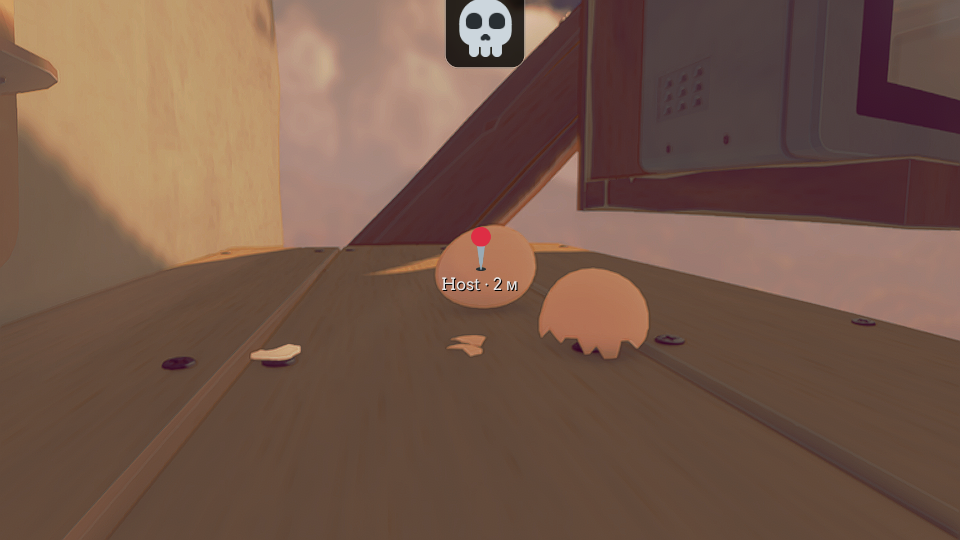
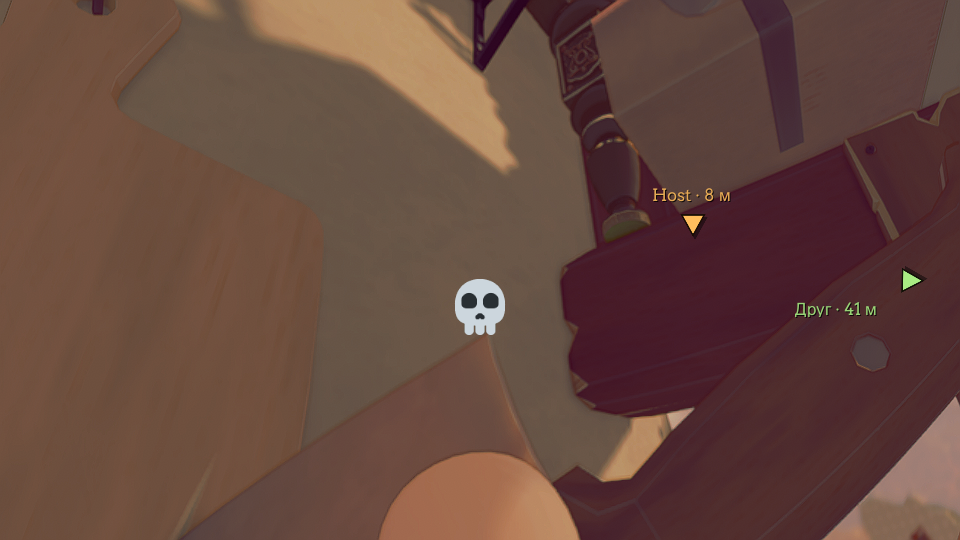
0.5.1: triangle pings in player colours with edge arrows, frameless steady emotes

diff --git a/src/EggCoop/Social.cs b/src/EggCoop/Social.cs
@@ -10,15 +10,15 @@ namespace EggCoop
     public partial class Plugin
     {
         const byte SEmote = CoopNet.SocialBase, SStats = SEmote + 1, SPing = SEmote + 2, SFall = SEmote + 3, SReset = SEmote + 4;
-        const float EmoteTime = 3.5f, PingTime = 12f, BigFall = 15f;
+        const float EmoteTime = 3.5f, PingTime = 12f, BigFall = 15f, EmoteSize = 56f;
         // Twemoji 15.1 (CC-BY 4.0), embedded as emote.<codepoint>.
-        static readonly string[] EmoteIcons = { "1f44b", "1f44d", "1f602", "1f631", "1f621", "1f64f", "1f480", "1f4cd" };
+        static readonly string[] EmoteIcons = { "1f44b", "1f44d", "1f602", "1f631", "1f621", "1f64f", "1f480", null };   // the last slot is the ping: drawn as its triangle
         static readonly string[] EmoteNames = { "Привет", "Класс!", "Ха-ха", "Ааа!", "Злюсь", "Помогите!", "RIP", "Метка" };
         const int PingIndex = 7;
 
         Texture2D[] emoteTex;
-        Texture2D wheelDisc, wheelSlice, wheelCenter, wheelCenterHot;
-        GUIStyle sBubble, sCap, sCloseX, sHint;
+        Texture2D wheelDisc, wheelSlice, wheelCenter, wheelCenterHot, triTex;
+        GUIStyle sCap, sCloseX, sHint;
         bool wheelOpen, aiming;
         int wheelHover = -1;
         float lastEmoteAt = -10f, nextStats;
@@ -111,22 +111,18 @@ namespace EggCoop
             aiming = false; UpdateCursor();
             var cam = Camera.main;
             if (cam == null || !InGame()) return;
-            // First solid thing under the cursor that is not an egg (ours or a friend's).
-            foreach (var h in Physics.RaycastAll(cam.ScreenPointToRay(screen), 500f, ~0, QueryTriggerInteraction.Ignore).OrderBy(h => h.distance))
-            {
-                if (h.collider.GetComponentInParent<EggCoreData>() != null || h.collider.GetComponentInParent<RawEggController>() != null
-                    || h.collider.transform.root.name.StartsWith("EggCoop_Ghost")) continue;
-                pings[-1] = (h.point, Time.unscaledTime);
-                if (net.Connected)
-                {
-                    var w = net.WorldWriter(); w.Put(SPing); w.Put(h.point.x); w.Put(h.point.y); w.Put(h.point.z);
-                    net.SendWorld(w, DeliveryMethod.ReliableUnordered);
-                }
-                return;
-            }
-            Toast("Туда метку не поставить — кликните по земле или предмету");
+            // First solid thing under the cursor that is not an egg (ours or a friend's). Distant scenery often has no
+            // collider: then the ping floats 30 m out along the view, which still shows the direction.
+            var ray = cam.ScreenPointToRay(screen);
+            var hit = Physics.RaycastAll(ray, 500f, ~0, QueryTriggerInteraction.Ignore).OrderBy(h => h.distance)
+                .FirstOrDefault(h => h.collider.GetComponentInParent<EggCoreData>() == null && h.collider.GetComponentInParent<RawEggController>() == null
+                    && !h.collider.transform.root.name.StartsWith("EggCoop_Ghost"));
+            var at = hit.collider != null ? hit.point : ray.GetPoint(30f);
+            pings[-1] = (at, Time.unscaledTime);
+            if (!net.Connected) return;
+            var w = net.WorldWriter(); w.Put(SPing); w.Put(at.x); w.Put(at.y); w.Put(at.z);
+            net.SendWorld(w, DeliveryMethod.ReliableUnordered);
         }
-
         void ReceiveSocial(int from, NetPacketReader r)
         {
             byte type = r.GetByte();
@@ -168,21 +164,20 @@ namespace EggCoop
 
         // ---------------------------------------------------------------- GUI
 
-        void InitSocialStyles(Font font, Texture2D panel, RectOffset panelBorder)
+        void InitSocialStyles(Font font)
         {
-            emoteTex = EmoteIcons.Select(LoadIcon).ToArray();
+            emoteTex = EmoteIcons.Select(c => c != null ? LoadIcon(c) : null).ToArray();
             wheelDisc = Ring(512, 0.34f, 181f, new Color(0f, 0f, 0f, 0.78f), new Color(1f, 1f, 1f, 0.14f));
             wheelSlice = Ring(512, 0.34f, 180f / EmoteIcons.Length, new Color(1f, 0.655f, 0.153f, 0.32f), new Color(1f, 0.655f, 0.153f, 0.8f));
             wheelCenter = Ring(128, 0f, 181f, new Color(1f, 1f, 1f, 0.08f), new Color(1f, 1f, 1f, 0.2f));
             wheelCenterHot = Ring(128, 0f, 181f, new Color(1f, 0.655f, 0.153f, 0.3f), new Color(1f, 0.655f, 0.153f, 0.8f));
-            sBubble = new GUIStyle { border = panelBorder };
-            sBubble.normal.background = panel;
+            triTex = Triangle(96);
             sCap = new GUIStyle(GUI.skin.label) { font = font, fontSize = 20, alignment = TextAnchor.MiddleCenter };
             sCap.normal.textColor = Orange;
             sCloseX = new GUIStyle(sCap) { fontSize = 34 };
             sCloseX.normal.textColor = Color.white;
             sHint = new GUIStyle(sDim) { alignment = TextAnchor.MiddleCenter, wordWrap = false };
-            Log.LogInfo($"Emotes: {emoteTex.Count(t => t != null)} of {EmoteIcons.Length} icons");
+            Log.LogInfo($"Emotes: {emoteTex.Count(t => t != null)} of {EmoteIcons.Length - 1} icons");
         }
 
         static Texture2D LoadIcon(string codepoint)
@@ -242,11 +237,42 @@ namespace EggCoop
                 float a = i * Mathf.PI * 2f / EmoteIcons.Length, rr = (R + inner) / 2f;
                 float s = Mathf.Min(R * 0.27f, 60f) * (i == wheelHover ? 1.18f : 1f);
                 var p = new Vector2(c.x + Mathf.Sin(a) * rr, c.y - Mathf.Cos(a) * rr);
-                if (emoteTex[i] != null) GUI.DrawTexture(new Rect(p.x - s / 2, p.y - s / 2, s, s), emoteTex[i], ScaleMode.ScaleToFit);
+                if (i == PingIndex) { GUI.color = Color.Lerp(Color.white, PlayerColor(-1), 0.75f); GUI.DrawTexture(new Rect(p.x - s * 0.4f, p.y - s * 0.4f, s * 0.8f, s * 0.8f), triTex); GUI.color = Color.white; }
+                else if (emoteTex[i] != null) GUI.DrawTexture(new Rect(p.x - s / 2, p.y - s / 2, s, s), emoteTex[i], ScaleMode.ScaleToFit);
             }
             GUI.Label(new Rect(c.x - 250, c.y + R + 6, 500, 30), wheelHover >= 0 ? EmoteNames[wheelHover] : "Закрыть", sCap);
             GUI.Label(new Rect(c.x - 250, c.y + R + 36, 500, 22), $"наведите и отпустите {cfg.EmoteKey.Value} · × или Esc — закрыть", sHint);
             if (e.type == EventType.MouseDown && e.button == 0) { if (wheelHover >= 0) FireEmote(wheelHover); else CloseWheel(); e.Use(); }
+        }
+
+        // Each player's colour (by player id, the same on every screen): their ping, its label and their name tag.
+        static readonly Color[] Palette = { new Color(1f, 0.655f, 0.153f), new Color(0.35f, 0.8f, 1f), new Color(0.55f, 0.9f, 0.35f), new Color(1f, 0.45f, 0.7f) };
+        Color PlayerColor(int id) => Palette[((id < 0 ? net.MyId : id) % Palette.Length + Palette.Length) % Palette.Length];
+
+        // White down-pointing triangle with a soft dark rim: the ping marker (tinted per player), also the bubble's tail.
+        static Texture2D Triangle(int n)
+        {
+            var t = new Texture2D(n, n, TextureFormat.RGBA32, false) { hideFlags = HideFlags.HideAndDontSave, filterMode = FilterMode.Bilinear, wrapMode = TextureWrapMode.Clamp };
+            // Texture rows grow upward: the tip is at the bottom (low y).
+            var v = new[] { new Vector2(0.08f, 0.86f), new Vector2(0.92f, 0.86f), new Vector2(0.5f, 0.1f) };
+            var px = new Color[n * n];
+            for (int y = 0; y < n; y++)
+                for (int x = 0; x < n; x++)
+                {
+                    var p = new Vector2((x + 0.5f) / n, (y + 0.5f) / n);
+                    float d = float.MinValue;   // signed distance in pixels, > 0 outside
+                    for (int i = 0; i < 3; i++)
+                    {
+                        Vector2 a = v[i], b = v[(i + 1) % 3], e = (b - a).normalized, nrm = new Vector2(-e.y, e.x);   // outward: the corners go clockwise
+                        d = Mathf.Max(d, Vector2.Dot(p - a, nrm) * n);
+                    }
+                    float rim = n * 0.06f;
+                    var col = Color.Lerp(Color.white, new Color(0.1f, 0.07f, 0.05f), Mathf.Clamp01((d + rim) / 1.5f));
+                    col.a = Mathf.Clamp01(0.5f - d);
+                    px[y * n + x] = col;
+                }
+            t.SetPixels(px); t.Apply();
+            return t;
         }
 
         void DrawSocial()
@@ -254,49 +280,36 @@ namespace EggCoop
             var cam = Camera.main;
             if (cam == null || !InGame() || emoteTex == null) return;
             float now = Time.unscaledTime;
-            Vector3 me = World.instance.GetEgg().GetPosition();
+            // Where our egg is drawn: GetPosition() is the physics pose, which moves in 50 Hz steps, so anything pinned
+            // to it shivers against the smoothly interpolated egg on screen.
+            var core = World.instance.GetEggCore();
+            Vector3 me = core.yolkState ? World.instance.GetEgg().GetRawTransform().position : core.eggRigidbody.transform.position;
             foreach (var kv in bubbles.ToList())
             {
                 float age = now - kv.Value.t0;
                 if (age > EmoteTime) { bubbles.Remove(kv.Key); continue; }
                 Vector3 at;
+                if (kv.Key < 0 && (wheelOpen || labHover >= 0)) continue;   // ours would sit right on the wheel's close button
                 if (kv.Key < 0) at = me;
                 else if (ghosts.TryGetValue(kv.Key, out var g)) at = g.Position;
                 else continue;
-                var sp = cam.WorldToScreenPoint(at + Vector3.up * 1.9f);
+                // Anchored just above the egg (a friend's: above the name tag), in pixels, and always fully on screen:
+                // our own egg sits low and close to the camera, a world-space offset used to throw it off the top.
+                var sp = cam.WorldToScreenPoint(at + Vector3.up * (kv.Key < 0 ? 0.55f : 1.2f));
                 if (sp.z <= 0 || emoteTex[kv.Value.emote] == null) continue;
-                // Pops in with a small overshoot, fades out over the last half second.
-                float pop = age < 0.18f ? Mathf.Sin(age / 0.18f * Mathf.PI * 0.75f) / 0.707f : 1f;
-                float size = Mathf.Clamp(900f / sp.z, 44f, 76f) * Mathf.Max(0.3f, pop);
-                GUI.color = new Color(1, 1, 1, Mathf.Clamp01((EmoteTime - age) * 2f));
-                var box = new Rect(sp.x - size / 2, Screen.height - sp.y - size, size, size);                GUI.Box(box, GUIContent.none, sBubble);
-                GUI.DrawTexture(new Rect(box.x + size * 0.14f, box.y + size * 0.14f, size * 0.72f, size * 0.72f), emoteTex[kv.Value.emote], ScaleMode.ScaleToFit);
-            }
-            foreach (var kv in pings.ToList())
+                // Just the emote, no frame. A fixed size and whole-pixel position: scaling it with the camera distance and
+                // drawing at fractional pixels made it shimmer every frame.
+                float t = Mathf.Clamp01(age / 0.28f) - 1f, pop = 1f + 2.7f * t * t * t + 1.7f * t * t;   // ease-out-back: grows with a small overshoot
+                float size = Mathf.Round(EmoteSize * Mathf.Max(0f, pop));
+                float x = Mathf.Round(Mathf.Clamp(sp.x, size / 2 + 8, Screen.width - size / 2 - 8));
+                float y = Mathf.Round(Mathf.Clamp(Screen.height - sp.y - size - (kv.Key < 0 ? 10f : 26f), 8f, Screen.height - size - 8f));
+                GUI.color = new Color(1, 1, 1, Mathf.Clamp01((EmoteTime - age) * 2.5f));
+                GUI.DrawTexture(new Rect(x - Mathf.Round(size / 2), y, size, size), emoteTex[kv.Value.emote]);
+            }            foreach (var kv in pings.ToList())
             {
                 float age = now - kv.Value.t0;
                 if (age > PingTime) { pings.Remove(kv.Key); continue; }
-                var sp = cam.WorldToScreenPoint(kv.Value.at);
-                // Behind the camera or off screen: pinned to the nearest edge so it can still be found.
-                float x = sp.x, y = Screen.height - sp.y;
-                if (sp.z < 0)
-                {
-                    // Projected through the camera it lands mirrored and anywhere on screen: push it out to the edge on its side.
-                    var d = new Vector2(Screen.width / 2f - x, Screen.height / 2f - y);
-                    if (d.sqrMagnitude < 1f) d = Vector2.up;
-                    d = d.normalized * (Screen.width + Screen.height);
-                    x = Screen.width / 2f + d.x; y = Screen.height / 2f + d.y;
-                }
-                bool edge = sp.z < 0 || x < 30 || x > Screen.width - 30 || y < 60 || y > Screen.height - 30;
-                x = Mathf.Clamp(x, 30, Screen.width - 30); y = Mathf.Clamp(y, 60, Screen.height - 30);
-                GUI.color = new Color(1, 1, 1, Mathf.Clamp01(PingTime - age) * (edge ? 0.75f : 1f));
-                float s = 40f + 8f * Mathf.Max(0f, 1f - age * 3f);   // a short bounce when placed
-                if (emoteTex[PingIndex] != null) GUI.DrawTexture(new Rect(x - s / 2, y - s, s, s), emoteTex[PingIndex], ScaleMode.ScaleToFit);
-                string label = $"{(kv.Key < 0 ? cfg.Nick.Value : NickOf(kv.Key))} · {Vector3.Distance(me, kv.Value.at):0} м";
-                var r = new Rect(x - 120, y + 2, 240, 22);
-                var col = GUI.color;
-                GUI.color = new Color(0, 0, 0, col.a); GUI.Label(new Rect(r.x + 1, r.y + 1, r.width, r.height), label, tag);
-                GUI.color = col; GUI.Label(r, label, tag);
+                DrawPing(cam, kv.Key, kv.Value.at, age, me);
             }
             GUI.color = Color.white;
             if (aiming)
@@ -307,6 +320,43 @@ namespace EggCoop
             }
         }
 
+        // A triangle pointing down at the spot, bobbing, with "nick · 12 м" above. Off screen (or behind us) it sits on
+        // the screen edge and turns into an arrow pointing toward the spot.
+        void DrawPing(Camera cam, int who, Vector3 at, float age, Vector3 me)
+        {
+            var sp = cam.WorldToScreenPoint(at);
+            float x = sp.x, y = Screen.height - sp.y;
+            const float margin = 34f;
+            bool behind = sp.z < 0;
+            if (behind) { x = Screen.width - x; y = Screen.height - y; }   // mirrored through the camera: flip back to its side
+            var c = new Vector2(Screen.width / 2f, Screen.height / 2f);
+            var dir = new Vector2(x, y) - c;
+            bool off = behind || x < margin || x > Screen.width - margin || y < margin + 30 || y > Screen.height - margin;
+            if (off)
+            {
+                if (dir.sqrMagnitude < 1f) dir = Vector2.down;
+                // Slide out along the direction until the point touches the margin box.
+                float sx = (Screen.width / 2f - margin) / Mathf.Max(Mathf.Abs(dir.x), 0.001f), sy = (Screen.height / 2f - margin - 15) / Mathf.Max(Mathf.Abs(dir.y), 0.001f);
+                var p = c + dir * Mathf.Min(sx, sy);
+                x = p.x; y = p.y;
+            }
+            var col = Color.Lerp(Color.white, PlayerColor(who), 0.75f);
+            float alpha = Mathf.Clamp01(PingTime - age) * Mathf.Clamp01(age * 8f);
+            float w = 30f * (1f + 0.35f * Mathf.Max(0f, 1f - age * 4f));   // a little pop when placed
+            var m = GUI.matrix;
+            if (off) GUIUtility.RotateAroundPivot(Mathf.Atan2(dir.y, dir.x) * Mathf.Rad2Deg - 90f, new Vector2(x, y));   // the tip points at the spot
+            float bob = off ? 0f : 5f * Mathf.Abs(Mathf.Sin(age * 3.2f));
+            var tri = new Rect(Mathf.Round(x - w / 2), Mathf.Round(y - w * 0.95f - bob), Mathf.Round(w), Mathf.Round(w));   // tip (bottom of the texture) on the spot, whole pixels
+            GUI.color = new Color(0, 0, 0, alpha * 0.45f); GUI.DrawTexture(new Rect(tri.x + 2, tri.y + 3, w, w), triTex);
+            GUI.color = new Color(col.r, col.g, col.b, alpha); GUI.DrawTexture(tri, triTex);
+            GUI.matrix = m;
+            string label = $"{(who < 0 ? cfg.Nick.Value : NickOf(who))} · {Vector3.Distance(me, at):0} м";
+            var r = off ? new Rect(Mathf.Clamp(x - 120, 4, Screen.width - 244), Mathf.Clamp(y + 18, 4, Screen.height - 26), 240, 22)
+                        : new Rect(x - 120, y - w - bob - 24, 240, 22);
+            GUI.color = new Color(0, 0, 0, alpha * 0.8f); GUI.Label(new Rect(r.x + 1, r.y + 1, r.width, r.height), label, tag);
+            GUI.color = new Color(col.r, col.g, col.b, alpha); GUI.Label(r, label, tag);
+            GUI.color = Color.white;
+        }
         // "Доска позора", worst first: most height lost.
         List<string> ShameLines()
         {

diff --git a/src/EggCoop/Plugin.cs b/src/EggCoop/Plugin.cs
@@ -19,7 +19,7 @@ namespace EggCoop
     [BepInPlugin("eggcoop", "Egging On Co-op", Version)]
     public partial class Plugin : BaseUnityPlugin
     {
-        public const string Version = "0.5.0";
+        public const string Version = "0.5.1";
         public static ManualLogSource Log;
         static Plugin instance;
         readonly HarmonyLib.Harmony harmony = new HarmonyLib.Harmony("eggcoop");
@@ -231,13 +231,15 @@ namespace EggCoop
                     break;
                 case 1:
                     labHover = -1;
-                    PlacePing(new Vector2(Screen.width / 2f, Screen.height / 2f));   // what the ping key does
+                    PlacePing(new Vector2(Screen.width * 0.72f, Screen.height * 0.55f));   // like the ping key, off-centre so it does not cover the emote
+                    if (cam != null) pings[2] = (egg + cam.transform.right * 40f + cam.transform.forward * 10f, Time.unscaledTime);   // a friend's, off to the right
                     Log.LogInfo($"Lab ping: {(pings.TryGetValue(-1, out var p) ? p.at.ToString() : "none")} egg={egg} cam={(cam != null ? cam.transform.position.ToString() : "-")}");
                     bubbles[-1] = (6, Time.unscaledTime);
                     break;
                 case 2:
                     labHover = 7;
                     if (cam != null) pings[-1] = (egg - cam.transform.forward * 8f, Time.unscaledTime);   // behind the camera: pinned to the edge
+                    if (cam != null) pings[2] = (egg + cam.transform.right * 40f + cam.transform.forward * 10f, Time.unscaledTime);   // a friend's, off to the right
                     break;
                 case 3:
                     labHover = -1; SetMenu(true);
@@ -835,7 +837,7 @@ namespace EggCoop
             GUI.skin.verticalScrollbarThumb.border = thumbBorder; GUI.skin.verticalScrollbarThumb.fixedWidth = 8;
             GUI.skin.verticalScrollbarUpButton.fixedHeight = GUI.skin.verticalScrollbarDownButton.fixedHeight = 0;
             GUI.skin.textField.normal.textColor = GUI.skin.textField.focused.textColor = GUI.skin.textField.hover.textColor = Color.white;
-            InitSocialStyles(font, panel, panelBorder);
+            InitSocialStyles(font);
             Log.LogInfo($"UI styled: font={(font != null ? font.name : "default")} panel={(panel.width > 1)} egg={(eggIcon != null)}");
         }
 
@@ -938,15 +940,17 @@ namespace EggCoop
         {
             var cam = Camera.main;
             if (cam == null || !InGame()) return;
-            foreach (var g in ghosts.Values)
+            foreach (var kv in ghosts)
             {
+                var g = kv.Value;
                 Vector3 sp = cam.WorldToScreenPoint(g.Position + Vector3.up * 1.2f);
                 if (sp.z <= 0) continue;
                 string label = Describe(g);
                 var r = new Rect(sp.x - 160, Screen.height - sp.y - 12, 320, 24);
                 GUI.color = Color.black; GUI.Label(new Rect(r.x + 1, r.y + 1, r.width, r.height), label, tag);
-                GUI.color = Color.white; GUI.Label(r, label, tag);
+                GUI.color = Color.Lerp(Color.white, PlayerColor(kv.Key), 0.6f); GUI.Label(r, label, tag);   // the same colour as their ping
             }
+            GUI.color = Color.white;
         }
 
         void DrawHostToggles()

diff --git a/NOTES.md b/NOTES.md
@@ -185,3 +185,9 @@ Owner's report and what 0.3.0 does about it:
 - Installer: game found from the unpacked location, Steam libraryfolders.vdf, else a folder dialog; elevates when the folder is not writable (Program Files); waits for the game to close; keeps an existing BepInEx and flips HideManagerGameObject in its cfg; replaces plugins\EggCoop, keeps eggcoop.cfg.
 - PASS (powershell.exe 5.1): fresh / over existing / uninstall on a fake Cyrillic path with spaces, the .bat launchers, vdf parsing, and a real run: lab p1 stripped by uninstall, reinstalled, game loaded BepInEx + EggCoop 0.5.0.
 - NOT TESTED: a real Steam install under Program Files (elevation path), SmartScreen prompt on a downloaded zip.
+
+## 0.5.1 (2026-10-23): ping and emote look (owner's request, after the Flipping is Hard ping)
+- Ping = procedural down-pointing triangle in the player's colour (palette by player id: orange, blue, green, pink; name tags use it too), bobbing, 'nick · N м' above. Off screen / behind the camera it sits on the edge as an arrow pointing at the spot. No hit (scenery without colliders) -> 30 m along the view instead of a toast. The wheel's ping slot shows the triangle.
+- Emotes: no frame, fixed 56 px, whole-pixel position (scaling with camera distance + fractional pixels made the icon shimmer while its frame did not); own egg anchored to its rendered transform (GetPosition() is the 50 Hz physics pose); hidden while the wheel is open (it covered the ×).
+- Protocol unchanged (EggCoop/0.5): 0.5.0 and 0.5.1 play together.
+- PASS (one lab copy, -coop-socialdemo screenshots).
